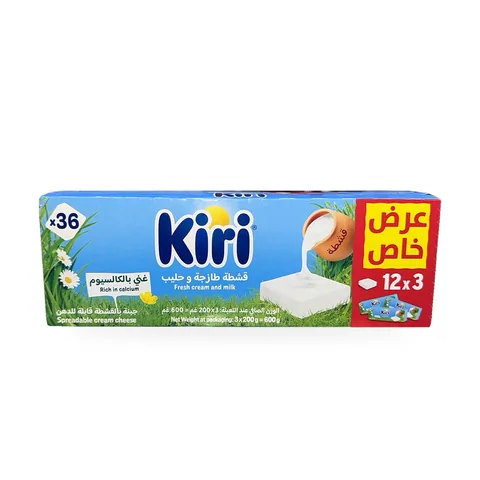
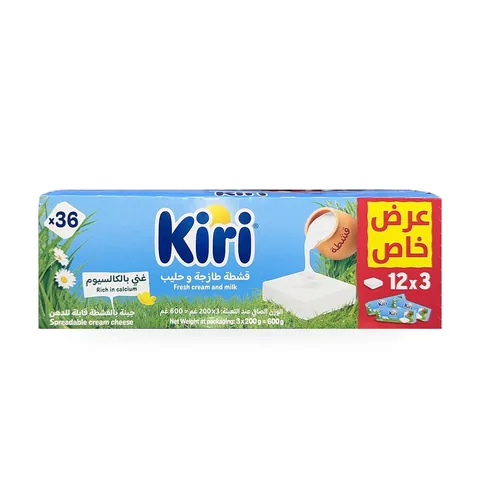
معيار الصور: الكراتين تتعدل زاويتها لواجهة مستقيمة (كأن الكاميرا قدّام نصها) وترجع زواياها الممسوحة، وإضاءة أعلى
Claude-Session: https://claude.ai/code/session_01WVPobBrMBeiAN4yPGnFQ5g

Changed region(s): [[0.0625, 0.375, 0.9375, 0.6875]]

diff --git a/tools/photos/process.py b/tools/photos/process.py
@@ -11,8 +11,9 @@ from PIL import Image, ImageFilter, ImageEnhance, ImageOps, ImageStat
 from rembg import remove, new_session
 
 LID = 1.0  # --lid 0.55 للعلب المصورة من فوق
+BOX = False  # --box للكراتين: تعديل الزاوية لمستطيل مستقيم
 HULL = False  # --hull للكراتين والعلب المستقيمة (القناع = الشكل الكامل)
-S = 1000; BOTTOM = 0.14; MAX_W = 0.84; MAX_H = 0.78; TARGET_L = 150; MIN_PX = 450
+S = 1000; BOTTOM = 0.14; MAX_W = 0.84; MAX_H = 0.78; TARGET_L = 165; MIN_PX = 450
 
 def fix_mask(a):
     """يسد الفراغات داخل المنتج (مثل المربع الأبيض على علبة كيري)، ويخلي أكبر قطعة بس.
@@ -63,6 +64,42 @@ def fix_mask(a):
     arr = np.array(a); arr[holes] = 255; arr[~(m | holes)] = 0
     return Image.fromarray(arr)
 
+def box_quad(a):
+    """أضلاع الكرتون الأربعة من حدود القناع: نقسم الحدود لأربع جهات ونرسم خط لكل جهة (أقل مربعات)، والزوايا = تقاطع الخطوط"""
+    import numpy as np
+    m = np.array(a) > 128; H, W = m.shape
+    ys, xs = np.nonzero(m)
+    if len(xs) < 1000: return None
+    x0, x1, y0, y1 = xs.min(), xs.max(), ys.min(), ys.max(); cw, ch = x1 - x0, y1 - y0
+    rows = np.arange(y0 + ch * 0.15, y1 - ch * 0.15, max(1, ch // 80)).astype(int)
+    cols = np.arange(x0 + cw * 0.15, x1 - cw * 0.15, max(1, cw // 80)).astype(int)
+    L = [(np.nonzero(m[y])[0].min(), y) for y in rows if m[y].any()]
+    R = [(np.nonzero(m[y])[0].max(), y) for y in rows if m[y].any()]
+    T = [(x, np.nonzero(m[:, x])[0].min()) for x in cols if m[:, x].any()]
+    B = [(x, np.nonzero(m[:, x])[0].max()) for x in cols if m[:, x].any()]
+    def fit(pts, vertical):
+        P = np.array(pts, float)
+        # خط متين: نشيل النقاط البعيدة (الزاوية الممسوحة) ونعيد
+        for _ in range(3):
+            if vertical: k, c = np.polyfit(P[:, 1], P[:, 0], 1); r = P[:, 0] - (k * P[:, 1] + c)
+            else: k, c = np.polyfit(P[:, 0], P[:, 1], 1); r = P[:, 1] - (k * P[:, 0] + c)
+            keep = np.abs(r) <= max(3, 2.0 * np.median(np.abs(r)) + 1)
+            if keep.all() or keep.sum() < 6: break
+            P = P[keep]
+        return k, c
+    l, r_, t, b = fit(L, True), fit(R, True), fit(T, False), fit(B, False)
+    def cross(v, h):  # x = kv*y + cv ; y = kh*x + ch
+        kv, cv = v; kh, chh = h; y = (kh * cv + chh) / (1 - kh * kv); return (kv * y + cv, y)
+    return (cross(l, t), cross(r_, t), cross(r_, b), cross(l, b))
+
+def persp_coeffs(dst_pts, src_pts):
+    import numpy as np
+    A = []; B = []
+    for (x, y), (u, v) in zip(dst_pts, src_pts):
+        A.append([x, y, 1, 0, 0, 0, -u * x, -u * y]); B.append(u)
+        A.append([0, 0, 0, x, y, 1, -v * x, -v * y]); B.append(v)
+    return np.linalg.solve(np.array(A, float), np.array(B, float)).tolist()
+
 def lum(img, mask):
     return ImageStat.Stat(img.convert('L'), mask).mean[0]
 
@@ -78,7 +115,29 @@ def process(src, dst, sess):
     a = cut.split()[-1].point(lambda v: 0 if v < 30 else v)
     a = fix_mask(a)
     cut = im.copy()  # الألوان من الصورة الأصلية (القص يبهّت الحواف)، والقناع من القص
+    if BOX:
+        # الكرتون: نلقى أضلاع الواجهة الأربعة (حتى لو زاوية ممسوحة) ونفردها لمستطيل، كأن الكاميرا قدّام نصه بالضبط
+        quad = box_quad(a)
+        if quad:
+            (tl, tr, br, bl) = quad
+            import math
+            Wd = int((math.dist(tl, tr) + math.dist(bl, br)) / 2); Hd = int((math.dist(tl, bl) + math.dist(tr, br)) / 2)
+            coeffs = persp_coeffs([(0, 0), (Wd, 0), (Wd, Hd), (0, Hd)], [tl, tr, br, bl])
+            rgb0 = im.transform((Wd, Hd), Image.PERSPECTIVE, coeffs, Image.BICUBIC)
+            # القناع بعد التعديل، وكل عمود يتعبى من أول المنتج لين تحت (يرجّع الزوايا الممسوحة تحت ويخلي شكل الأعلى مثل الغطيان)
+            import numpy as np
+            am = np.array(a.transform((Wd, Hd), Image.PERSPECTIVE, coeffs, Image.BILINEAR)) > 128
+            out = np.zeros((Hd, Wd), np.uint8)
+            for x in range(Wd):
+                col = np.nonzero(am[:, x])[0]
+                if len(col): out[col.min():, x] = 255
+            a = Image.fromarray(out).filter(ImageFilter.GaussianBlur(0.8))
+            cut = rgb0; cut.putalpha(a); cut = cut.crop(a.getbbox())
+            return finish(cut, a, dst, src)
     cut.putalpha(a); box = a.getbbox(); cut = cut.crop(box)
+    return finish(cut, None, dst, src)
+
+def finish(cut, _a, dst, src):
     # العلب والأسطوانات المصورة من فوق شوي: نضغط منطقة الغطاء (أعلى ٣٠٪) عمودياً فتبان مستقيمة قدّام الكاميرا
     if LID < 1:
         w0, h0 = cut.size; lid = int(h0 * 0.30)
@@ -96,7 +155,7 @@ def process(src, dst, sess):
     # رفع الإضاءة بمنحنى (gamma) يرفع الدرجات المتوسطة والغامقة بدون ما يحرق الأبيض واللمعة
     import math
     k = max(0.85, min(1.4, TARGET_L / max(l0, 1)))
-    g = max(0.6, min(1.15, math.log(TARGET_L / 255) / math.log(max(l0, 1) / 255)))
+    g = max(0.5, min(1.15, math.log(TARGET_L / 255) / math.log(max(l0, 1) / 255)))
     lut = [round(255 * (i / 255) ** g) for i in range(256)]
     rgb = rgb.point(lut * 3)
     rgb = ImageEnhance.Contrast(rgb).enhance(1.06)
@@ -123,5 +182,6 @@ if __name__ == '__main__':
     args = sys.argv[1:]
     if '--lid' in args: i = args.index('--lid'); LID = float(args[i + 1]); del args[i:i + 2]
     if '--hull' in args: HULL = True; args.remove('--hull')
+    if '--box' in args: BOX = True; HULL = True; args.remove('--box')
     sess = new_session(os.environ.get('MODEL', 'isnet-general-use'))
     print(json.dumps(process(args[0], args[1], sess), ensure_ascii=False))
